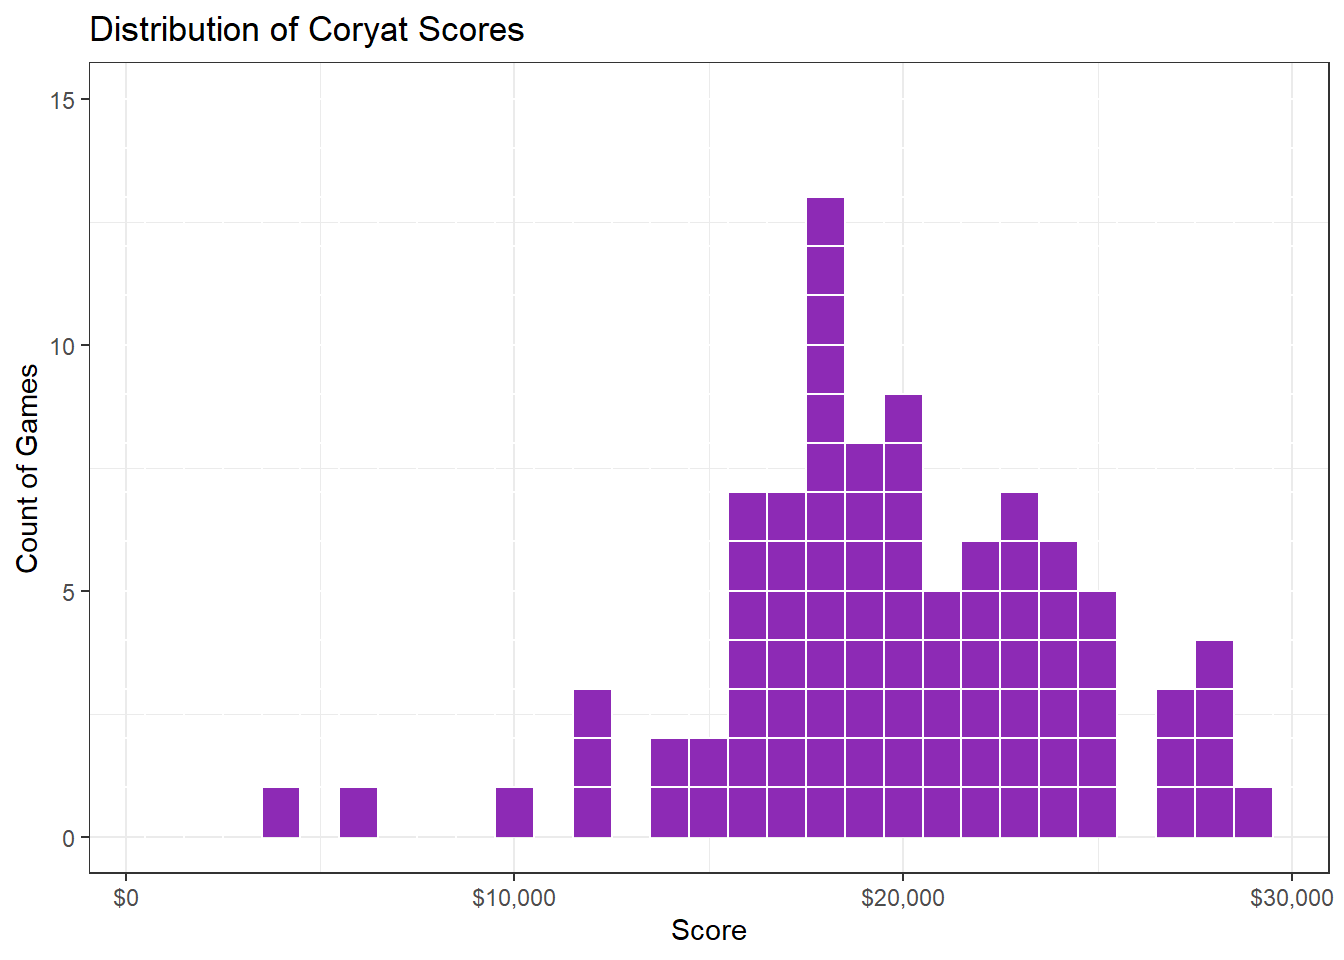
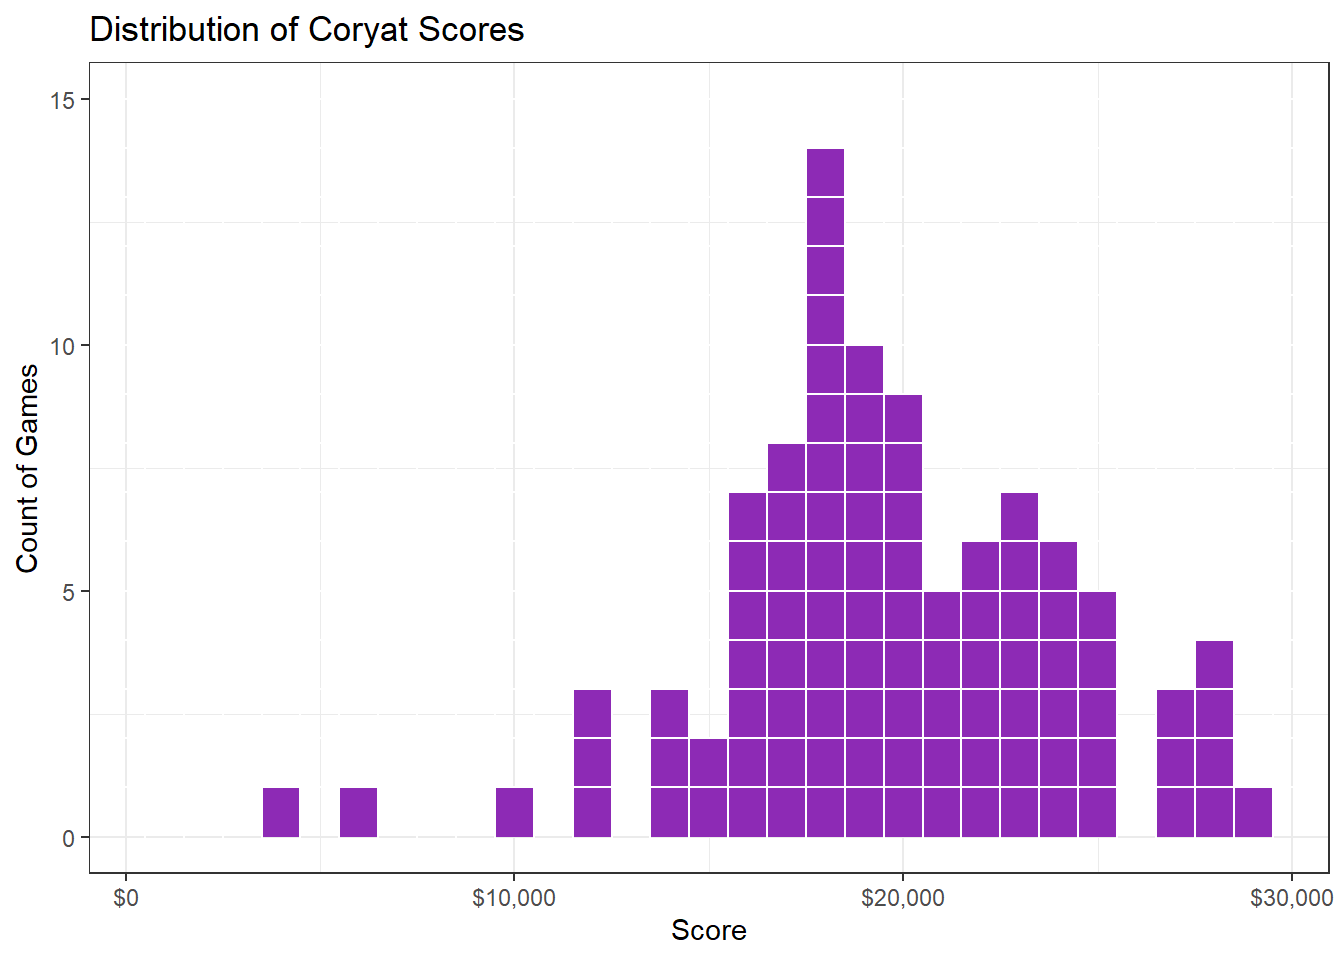
update coryat scores

diff --git a/posts/coryat_scores/coryat_scores.html b/posts/coryat_scores/coryat_scores.html
@@ -186,7 +186,7 @@ code span.wa { color: #60a0b0; font-weight: bold; font-style: italic; } /* Warni
 </section>
 <section id="j-scorer" class="level1">
 <h1>J! Scorer</h1>
-<p>The website <a href="https://j-scorer.com/">J! Scorer</a> is a convenient way to record games and determine one’s Coryat score. The site was created by two-time TV game show contestant Steve McClellan and has a public GitHub <a href="https://github.com/steve-mcclellan/j-scorer">repository</a>.</p>
+<p><a href="https://j-scorer.com/">J! Scorer</a> is a convenient way to record games and determine one’s Coryat score. The site was created by two-time TV game show contestant Steve McClellan and has a public GitHub <a href="https://github.com/steve-mcclellan/j-scorer">repository</a>.</p>
 <p>J! Scorer users can download a JSON file of their games.</p>
 </section>
 <section id="reading-a-j-scorer-file-and-computing-coryat-scores" class="level1">
@@ -194,7 +194,7 @@ code span.wa { color: #60a0b0; font-weight: bold; font-style: italic; } /* Warni
 <p>It took a little effort to reverse-engineer the format of the files produced by J! Scorer. (I did this before finding the above-mentioned GitHub repo.) I used <code>jsonlite::read_json</code> plus a little trial and error. Then it’s just a matter of straightforward data transformations using <code>dplyr</code>.</p>
 <div class="cell" data-layout-align="center">
 <div class="sourceCode cell-code" id="cb1"><pre class="sourceCode r code-with-copy"><code class="sourceCode r"><span id="cb1-1"><a href="#cb1-1" aria-hidden="true" tabindex="-1"></a><span class="co"># read the JSON file, convert to data frame, and unnest some columns</span></span>
-<span id="cb1-2"><a href="#cb1-2" aria-hidden="true" tabindex="-1"></a><span class="fu">read_json</span>(<span class="st">"backup20221027134621.jscor"</span>, <span class="at">simplifyVector =</span> <span class="cn">TRUE</span>) <span class="sc">|&gt;</span></span>
+<span id="cb1-2"><a href="#cb1-2" aria-hidden="true" tabindex="-1"></a><span class="fu">read_json</span>(<span class="st">"backup20221101182527.jscor"</span>, <span class="at">simplifyVector =</span> <span class="cn">TRUE</span>) <span class="sc">|&gt;</span></span>
 <span id="cb1-3"><a href="#cb1-3" aria-hidden="true" tabindex="-1"></a>  <span class="fu">as.data.frame</span>() <span class="sc">|&gt;</span></span>
 <span id="cb1-4"><a href="#cb1-4" aria-hidden="true" tabindex="-1"></a>  <span class="fu">unnest</span>(<span class="at">cols =</span> <span class="fu">c</span>(games_attributes.sixths_attributes,</span>
 <span id="cb1-5"><a href="#cb1-5" aria-hidden="true" tabindex="-1"></a>                  games_attributes.final_attributes),</span>
@@ -203,7 +203,7 @@ code span.wa { color: #60a0b0; font-weight: bold; font-style: italic; } /* Warni
 <span id="cb1-8"><a href="#cb1-8" aria-hidden="true" tabindex="-1"></a>  <span class="co"># clue instead of per category, and calculate each clue's contribution to the</span></span>
 <span id="cb1-9"><a href="#cb1-9" aria-hidden="true" tabindex="-1"></a>  <span class="co"># Coryat score</span></span>
 <span id="cb1-10"><a href="#cb1-10" aria-hidden="true" tabindex="-1"></a>  <span class="fu">select</span>(<span class="dv">2</span>, <span class="dv">10</span><span class="sc">:</span><span class="dv">14</span>) <span class="sc">|&gt;</span></span>
-<span id="cb1-11"><a href="#cb1-11" aria-hidden="true" tabindex="-1"></a>  <span class="fu">mutate</span>(<span class="at">round =</span> <span class="fu">rep</span>(<span class="fu">c</span>(<span class="fu">rep</span>(<span class="dv">1</span>, <span class="dv">6</span>), <span class="fu">rep</span>(<span class="dv">2</span>, <span class="dv">6</span>)), <span class="dv">91</span>)) <span class="sc">|&gt;</span></span>
+<span id="cb1-11"><a href="#cb1-11" aria-hidden="true" tabindex="-1"></a>  <span class="fu">mutate</span>(<span class="at">round =</span> <span class="fu">rep</span>(<span class="fu">c</span>(<span class="fu">rep</span>(<span class="dv">1</span>, <span class="dv">6</span>), <span class="fu">rep</span>(<span class="dv">2</span>, <span class="dv">6</span>)), <span class="fu">n</span>()<span class="sc">/</span><span class="dv">12</span>)) <span class="sc">|&gt;</span></span>
 <span id="cb1-12"><a href="#cb1-12" aria-hidden="true" tabindex="-1"></a>  <span class="fu">pivot_longer</span>(<span class="at">cols =</span> <span class="dv">2</span><span class="sc">:</span><span class="dv">6</span>, <span class="at">names_to =</span> <span class="st">"clue"</span>, <span class="at">names_prefix =</span> <span class="st">"result"</span>) <span class="sc">|&gt;</span></span>
 <span id="cb1-13"><a href="#cb1-13" aria-hidden="true" tabindex="-1"></a>  <span class="fu">rename</span>(<span class="at">result =</span> value) <span class="sc">|&gt;</span></span>
 <span id="cb1-14"><a href="#cb1-14" aria-hidden="true" tabindex="-1"></a>  <span class="fu">mutate</span>(<span class="at">result =</span> <span class="fu">recode</span>(result, <span class="st">`</span><span class="at">1</span><span class="st">`</span> <span class="ot">=</span> <span class="sc">-</span><span class="dv">1</span>, <span class="st">`</span><span class="at">3</span><span class="st">`</span> <span class="ot">=</span> <span class="dv">1</span>, <span class="st">`</span><span class="at">7</span><span class="st">`</span> <span class="ot">=</span> <span class="dv">1</span>, <span class="at">.default =</span> <span class="dv">0</span>),</span>
@@ -220,8 +220,8 @@ code span.wa { color: #60a0b0; font-weight: bold; font-style: italic; } /* Warni
 <span id="cb1-25"><a href="#cb1-25" aria-hidden="true" tabindex="-1"></a>  coryat_scores</span></code><button title="Copy to Clipboard" class="code-copy-button"><i class="bi"></i></button></pre></div>
 </div>
 </section>
-<section id="mean-score" class="level1">
-<h1>Mean Score</h1>
+<section id="average-score" class="level1">
+<h1>Average Score</h1>
 <p>An average score of around $25,000 is considered appropriate for prospective contestants.</p>
 <div class="cell" data-layout-align="center">
 <div class="sourceCode cell-code" id="cb2"><pre class="sourceCode r code-with-copy"><code class="sourceCode r"><span id="cb2-1"><a href="#cb2-1" aria-hidden="true" tabindex="-1"></a>coryat_scores <span class="sc">|&gt;</span></span>
@@ -229,7 +229,7 @@ code span.wa { color: #60a0b0; font-weight: bold; font-style: italic; } /* Warni
 <span id="cb2-3"><a href="#cb2-3" aria-hidden="true" tabindex="-1"></a>  <span class="fu">mean</span>() <span class="sc">|&gt;</span></span>
 <span id="cb2-4"><a href="#cb2-4" aria-hidden="true" tabindex="-1"></a>  <span class="fu">round</span>()</span></code><button title="Copy to Clipboard" class="code-copy-button"><i class="bi"></i></button></pre></div>
 <div class="cell-output cell-output-stdout">
-<pre><code>[1] 19738</code></pre>
+<pre><code>[1] 19623</code></pre>
 </div>
 </div>
 <p>Clearly, I have some studying to do before I consider trying to compete on the show.</p>

diff --git a/posts.html b/posts.html
@@ -132,7 +132,7 @@ ul.task-list{list-style: none;}
 
 <div class="quarto-listing quarto-listing-container-default" id="listing-listing">
 <div class="list quarto-listing-default">
-<div class="quarto-post image-right" data-index="0" data-listing-date-sort="1665979200000" data-listing-file-modified-sort="1666913217228" data-listing-reading-time-sort="2.93">
+<div class="quarto-post image-right" data-index="0" data-listing-date-sort="1665979200000" data-listing-file-modified-sort="1667352488199" data-listing-reading-time-sort="2.93">
 <div class="body">
 <a href="./posts/coryat_scores/coryat_scores.html">
 <h3 class="no-anchor listing-title">
